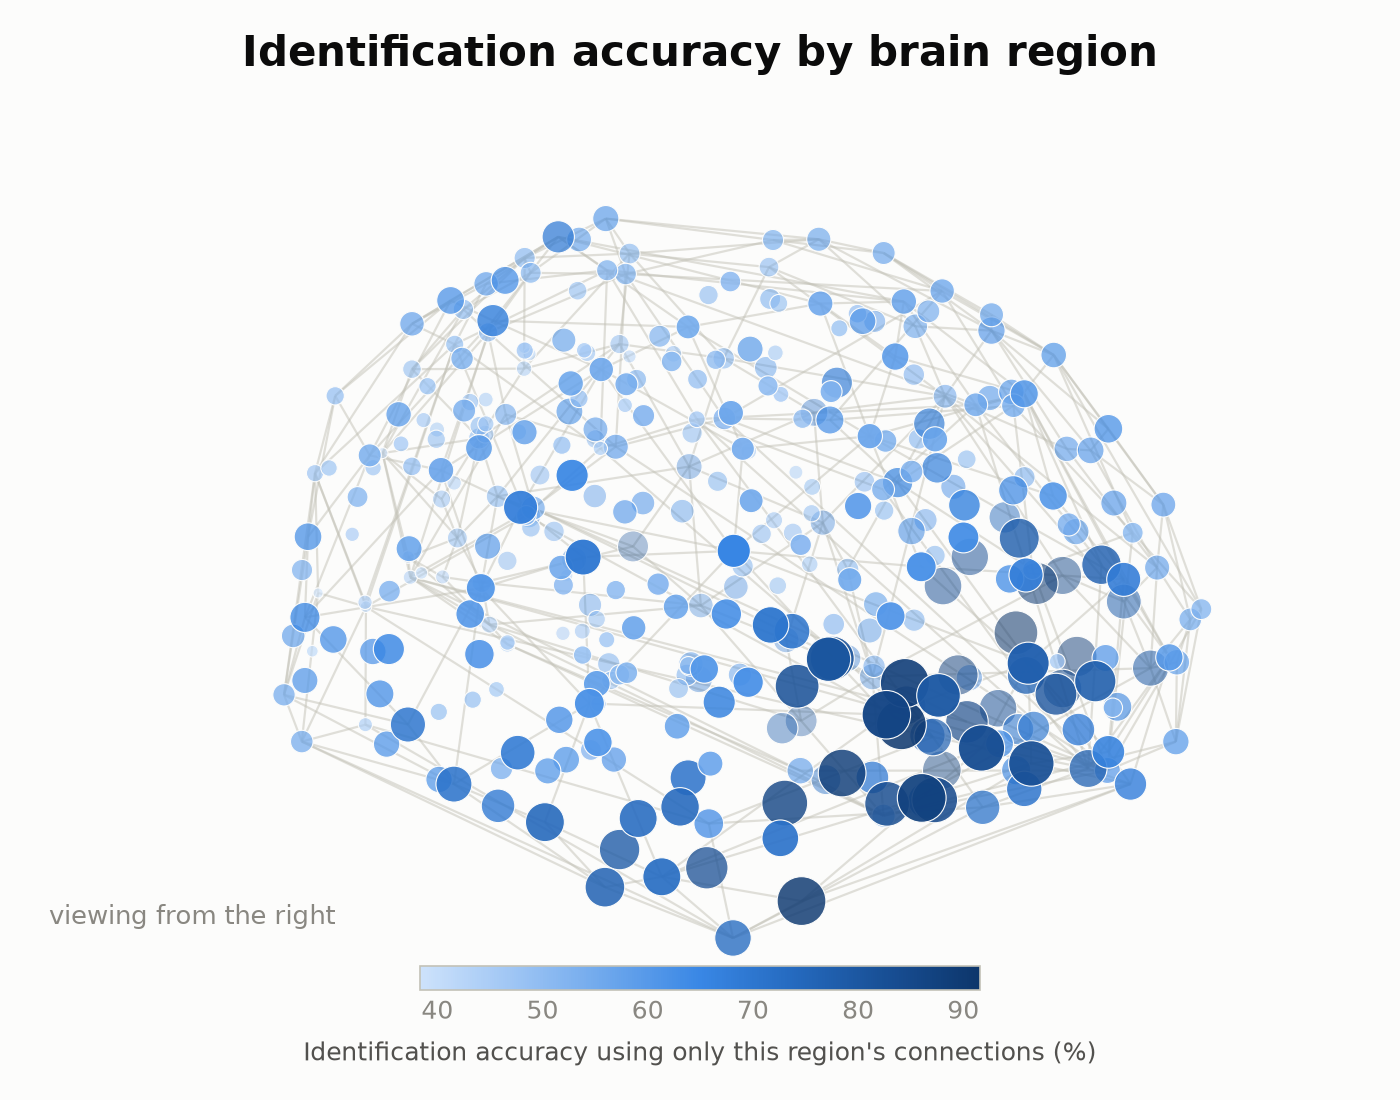
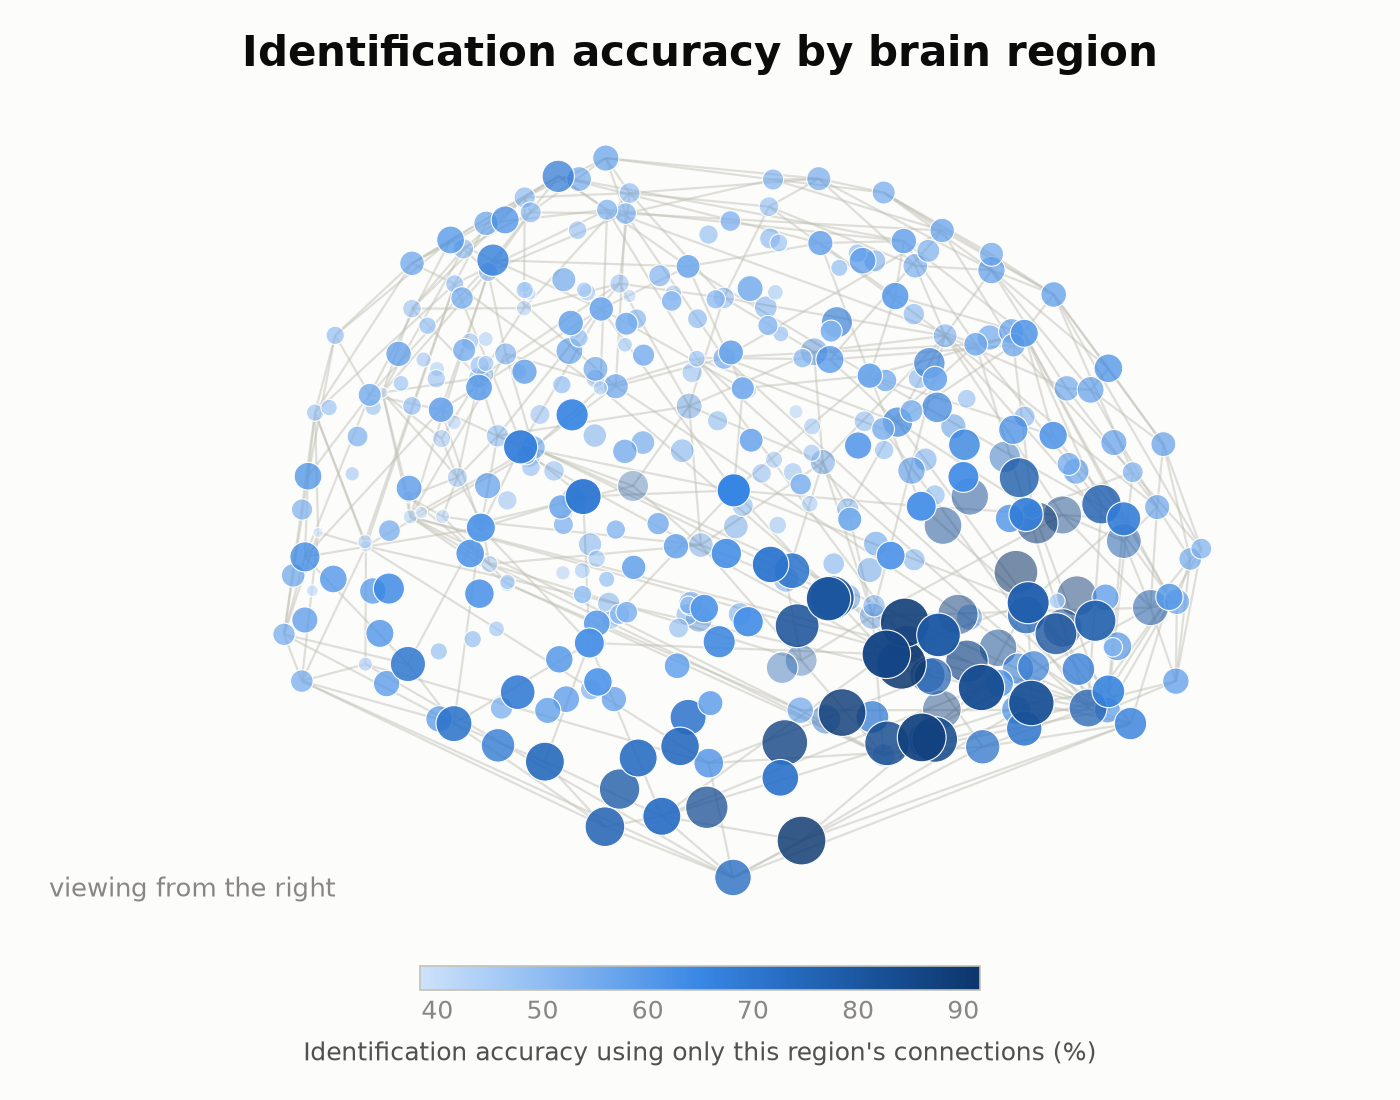
fixed issues with the figures

Changed region(s): [[0.1843, 0.1236, 0.86, 0.8655], [0.0307, 0.8036, 0.2457, 0.8345]]

diff --git a/visualiser.py b/visualiser.py
@@ -234,7 +234,7 @@ def fig_region_map(rows, n_frames=72, elevation=14):
     ax = fig.add_subplot(projection="3d")
     # the axes rect runs off-canvas on purpose: the cube's empty corners spill outside
     # the frame instead of shrinking the brain, and only the brain itself stays in view
-    ax.set_position([-0.11, -0.02, 1.23, 1.02])
+    ax.set_position([-0.11, 0.035, 1.23, 1.02])
 
     cax = fig.add_axes([0.30, 0.10, 0.40, 0.022])
     cb = fig.colorbar(ScalarMappable(norm=Normalize(accuracies.min(), accuracies.max()), cmap=SEQ),
@@ -246,7 +246,7 @@ def fig_region_map(rows, n_frames=72, elevation=14):
 
     fig.text(0.5, 0.94, "Identification accuracy by brain region", ha="center",
              fontsize=15, fontweight="bold", color=INK)
-    caption = fig.text(0.035, 0.16, "", fontsize=9.5, color=MUTED, ha="left")
+    caption = fig.text(0.035, 0.185, "", fontsize=9.5, color=MUTED, ha="left")
 
     side_at_azimuth = [(0, "right"), (90, "front"), (180, "left"), (270, "back"), (360, "right")]
 
